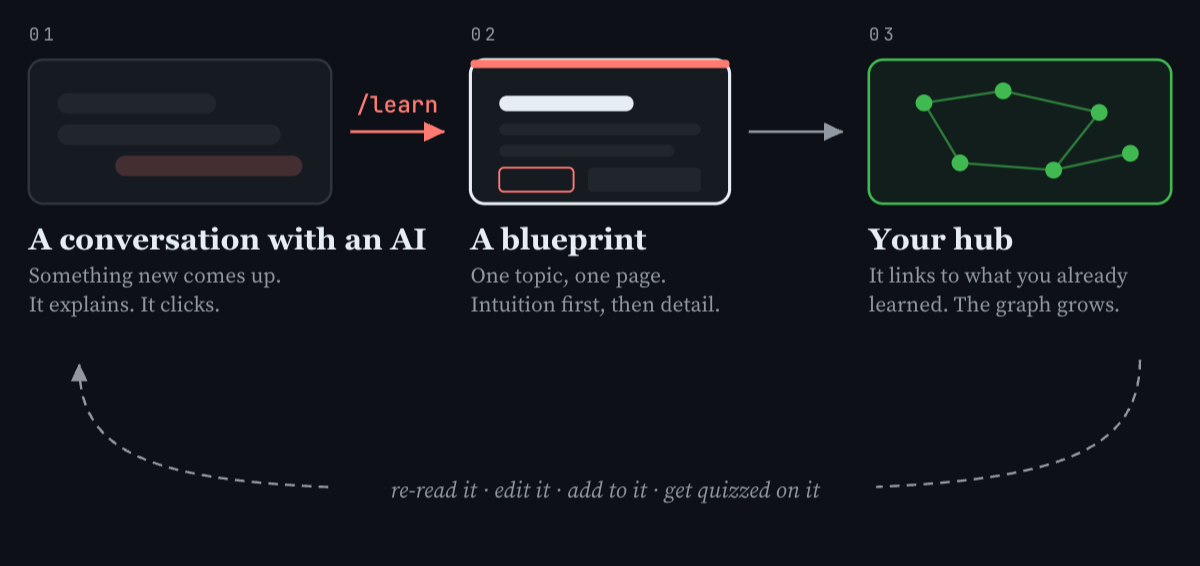
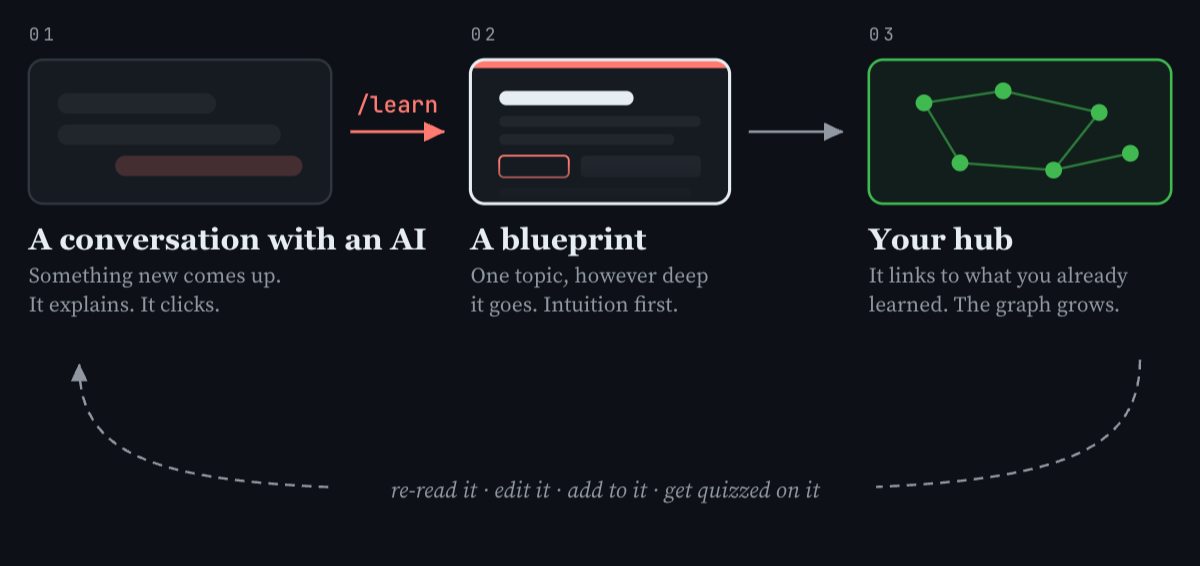
Stop calling a blueprint one page
A blueprint is one HTML file, but "one topic, one page" reads as "something
short", and the causal-inference blueprint that started all this runs to
fourteen sections. The length is set by the topic, not by the format.

- The diagram now says "One topic, however deep it goes."
- Its blueprint card has content running past the bottom edge and fading out,
  instead of three lines that stop tidily inside the box.
- The README says outright that a DNS session might be four sections and a
  causal-inference one fourteen, and that what makes it a single blueprint is
  covering one thing end to end rather than being cut to a convenient size.

Also rewrote "with a diagram wherever a picture says it faster", which was
trying to be neat and ended up unparseable. It now says diagrams appear where
drawing something explains it better than describing it would.

diff --git a/docs/loop-source.html b/docs/loop-source.html
@@ -62,16 +62,29 @@
 
   <!-- 02 blueprint -->
   <text class="step" x="392" y="30">02</text>
-  <rect x="392" y="46" width="216" height="120" rx="12" fill="var(--card)" stroke="var(--fg)" stroke-width="2.6"/>
-  <rect x="392" y="46" width="216" height="7" rx="3.5" fill="var(--acc)"/>
-  <rect x="416" y="76" width="112" height="13" rx="6.5" fill="var(--fg)"/>
-  <rect x="416" y="99" width="168" height="10" rx="5" fill="var(--fill)"/>
-  <rect x="416" y="117" width="146" height="10" rx="5" fill="var(--fill)"/>
-  <rect x="416" y="136" width="62" height="20" rx="4" fill="none" stroke="var(--acc)" stroke-width="1.6"/>
-  <rect x="490" y="136" width="94" height="20" rx="4" fill="var(--fill)"/>
+  <!-- The content runs past the bottom of the card and fades out: a blueprint is
+       as long as its topic needs, and a three-line stub would say otherwise. -->
+  <clipPath id="bpClip"><rect x="392" y="46" width="216" height="120" rx="12"/></clipPath>
+  <linearGradient id="fade" x1="0" y1="0" x2="0" y2="1">
+    <stop offset="0" stop-color="var(--card)" stop-opacity="0"/>
+    <stop offset="1" stop-color="var(--card)" stop-opacity="1"/>
+  </linearGradient>
+  <rect x="392" y="46" width="216" height="120" rx="12" fill="var(--card)"/>
+  <g clip-path="url(#bpClip)">
+    <rect x="392" y="46" width="216" height="7" fill="var(--acc)"/>
+    <rect x="416" y="72" width="112" height="12" rx="6" fill="var(--fg)"/>
+    <rect x="416" y="93" width="168" height="9" rx="4.5" fill="var(--fill)"/>
+    <rect x="416" y="108" width="146" height="9" rx="4.5" fill="var(--fill)"/>
+    <rect x="416" y="126" width="58" height="18" rx="4" fill="none" stroke="var(--acc)" stroke-width="1.6"/>
+    <rect x="484" y="126" width="100" height="18" rx="4" fill="var(--fill)"/>
+    <rect x="416" y="153" width="160" height="9" rx="4.5" fill="var(--fill)"/>
+    <rect x="416" y="168" width="132" height="9" rx="4.5" fill="var(--fill)"/>
+    <rect x="392" y="132" width="216" height="34" fill="url(#fade)"/>
+  </g>
+  <rect x="392" y="46" width="216" height="120" rx="12" fill="none" stroke="var(--fg)" stroke-width="2.6"/>
   <text class="ttl" x="392" y="204">A blueprint</text>
-  <text class="sub" x="392" y="232">One topic, one page.</text>
-  <text class="sub" x="392" y="256">Intuition first, then detail.</text>
+  <text class="sub" x="392" y="232">One topic, however deep</text>
+  <text class="sub" x="392" y="256">it goes. Intuition first.</text>
 
   <path d="M624,106 L702,106" stroke="var(--mut)" stroke-width="2.2" fill="none" marker-end="url(#ar)"/>
 

diff --git a/README.md b/README.md
@@ -6,8 +6,8 @@ You are working with an AI and something comes up that you do not really
 understand. You ask. It explains, it clicks, you move on. Then the chat scrolls
 away, and a month later you are asking the same question again.
 
-This is where that explanation goes instead: one page per topic, written for
-you, that you keep and keep editing.
+This is where that explanation goes instead: one **blueprint** per topic,
+written for you, that you keep and keep editing.
 
 ## The loop
 
@@ -27,9 +27,15 @@ you learned this week.
   <img src="docs/blueprint.png" alt="A blueprint: a claim as its title, a color legend, a table of contents, and a section that opens in plain English and ends with a Remember box">
 </picture>
 
-Plain English first, then the examples, then the precise terms, with a diagram
-wherever a picture says it faster. It is one self-contained HTML file, so it
-opens anywhere, offline, years from now.
+Plain English first, then examples, then the precise terms. Diagrams appear
+where drawing something explains it better than describing it would.
+
+A blueprint is as long as its topic deserves. A session on DNS might be four
+sections; one on causal inference might run to fourteen and read like a short
+field guide. What makes it one blueprint is that it covers one thing, end to
+end, rather than being trimmed to a convenient size. It is a single
+self-contained HTML file either way, so it opens anywhere, offline, years from
+now.
 
 ## It grows into something
 
